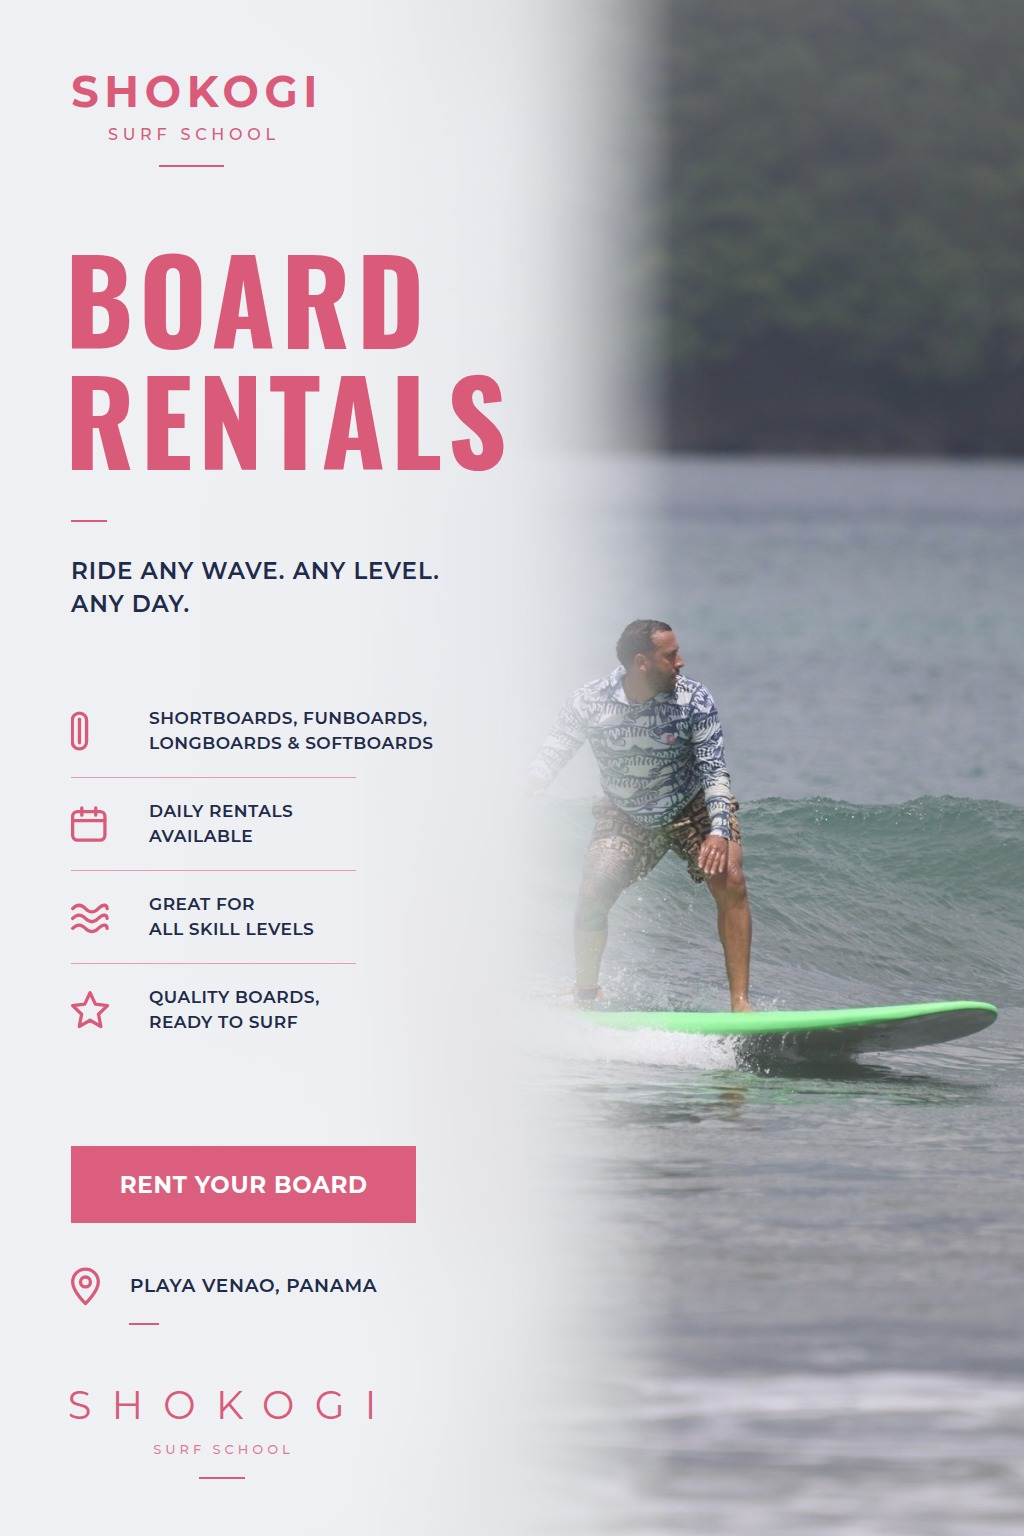
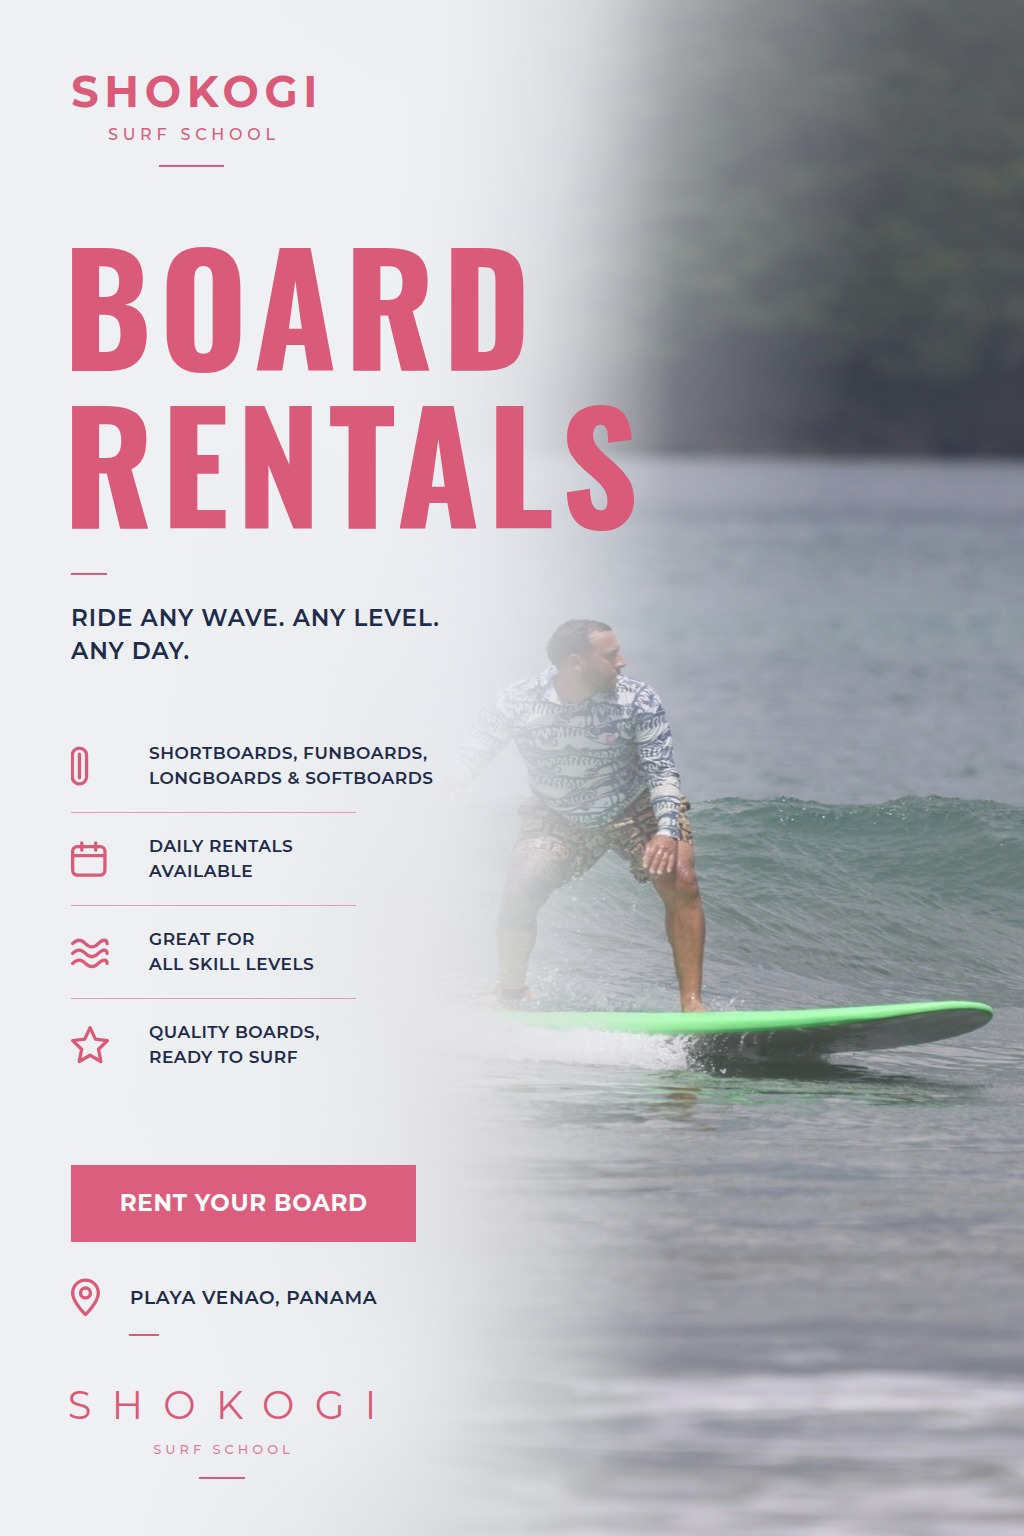
marketing: the headline carries the poster, as it does on the photo flyer
Side by side the first pass read as a lighter cousin rather than the same
design. Two things did it. The headline was set at the photo flyer's own cap
height, but that flyer spends three lines on it and these spend two, so the
same type filled half the mass and the poster went quiet where it should
shout; it is now set larger, and the block lands where the three-line one
lands. And the photographs stopped short of the text, leaving a flat field
where the photo flyer carries sky across the whole sheet: the rentals shot now
reaches to x=400 under a wash tilted a degree off vertical, so it thins across
the dark headland where the headline crosses it and clears at the bottom where
the surfer is.

Every block below the headline still lands within fifteen pixels of its place
on the photo flyer.

Claude-Session: https://claude.ai/code/session_017pEESoJdGhwan5Q3pXQ5zy

diff --git a/marketing/build_flyers.py b/marketing/build_flyers.py
@@ -115,9 +115,9 @@ html, body {{ width: {W}px; height: {H}px; overflow: hidden; background: #888; }
 
 /* the headline */
 .head {{
-  font-family: 'Oswald', sans-serif; font-weight: 700; font-size: 116px;
+  font-family: 'Oswald', sans-serif; font-weight: 700; font-size: 151px;
   line-height: 1.047; letter-spacing: .05em; color: {PINK}; text-transform: uppercase;
-  margin-left: -6px;
+  margin-left: -8px;
 }}
 .head-dash {{ width: 36px; height: 2px; background: {PINK}; }}
 
@@ -222,10 +222,16 @@ FLYERS = [
         title="Shokogi — Board Rentals",
         photo="../photos/rentals.jpg",
         alt="A surfer trimming along a green wave on a soft-top longboard",
-        # the crop is 625x1800; at 1536 tall it is 533 wide and sits on the right
-        shot_w=533, img_w=533, img_x=0, img_y=0, fade=34,
-        veil=("linear-gradient(90deg, rgba(240,241,245,.97) 0%, rgba(240,241,245,.95) 34%,"
-              " rgba(240,241,245,.62) 50%, rgba(240,241,245,0) 66%)"),
+        # the crop is 625x1800, laid in at its own scale so it reaches from
+        # x=400 to the right edge, hung 130px low to keep the dark headland
+        # out of the top corner
+        shot_w=624, img_w=624, img_x=0, img_y=0, fade=44,
+        # the wash is tilted: it reaches further across the dark headland at the
+        # top, where the headline crosses the photograph, and clears at the
+        # bottom where the surfer is
+        veil=("linear-gradient(101deg, rgba(240,241,245,.97) 0%, rgba(240,241,245,.95) 33%,"
+              " rgba(240,241,245,.74) 45%, rgba(240,241,245,.30) 57%,"
+              " rgba(240,241,245,0) 70%)"),
         headline="Board<br>Rentals",
         lede="Ride any wave. Any level.<br>Any day.",
         cta="Rent your board",
